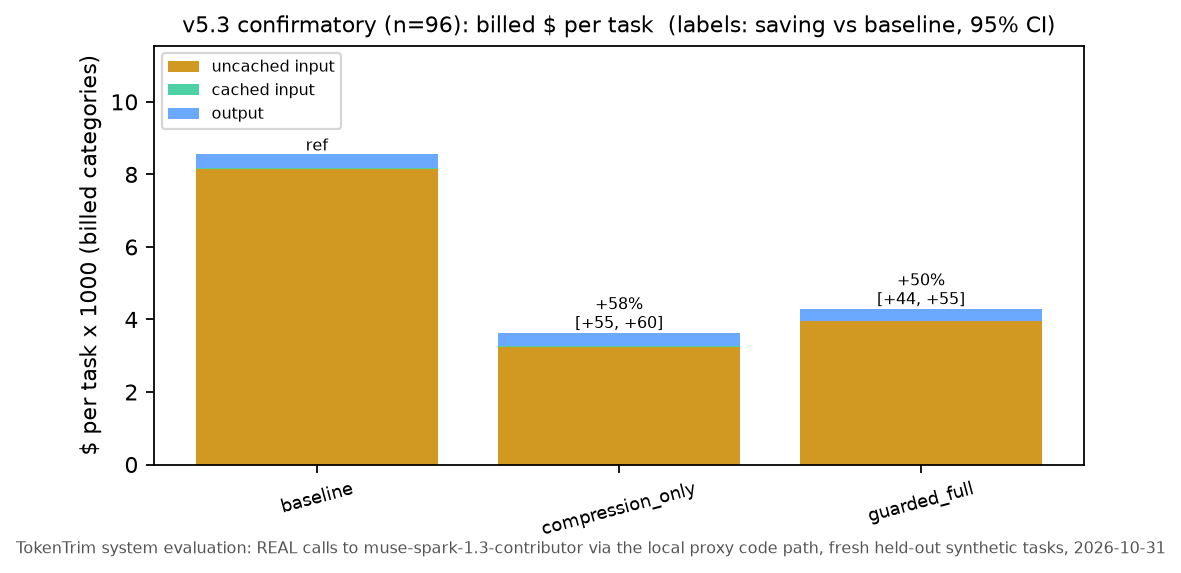
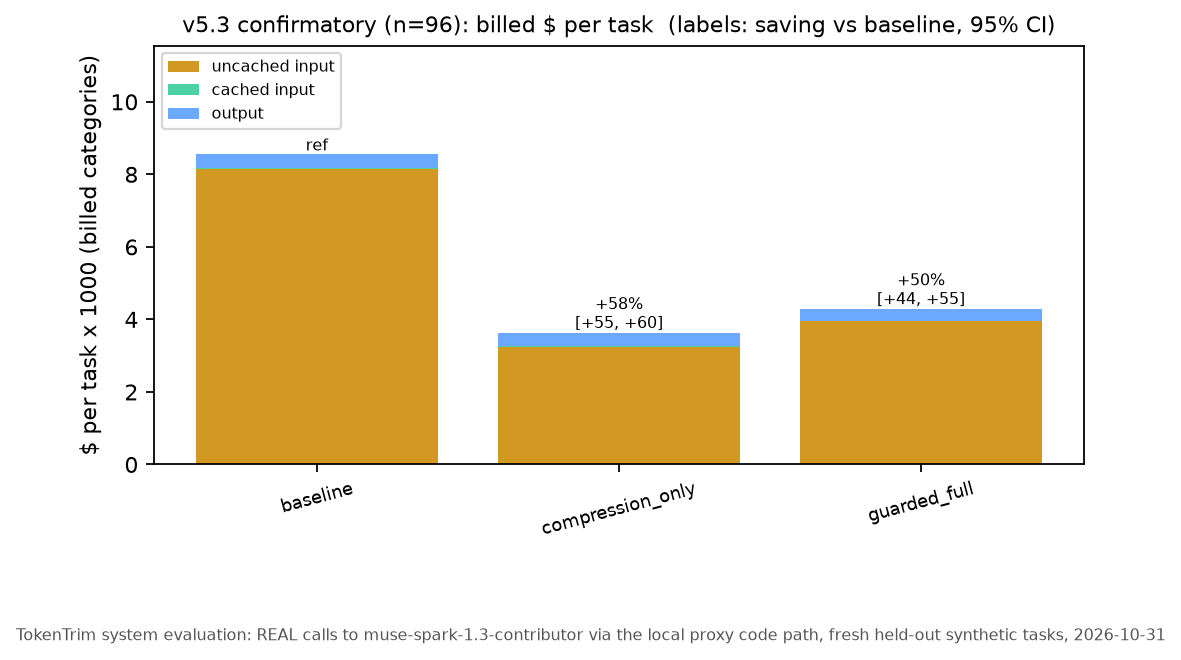
README: compression-only headline (v5.3 confirmatory, NI shown, +57.7% saving), negatives (router never applied, loop guard untriggered, batch B not run); v5.3 figure footer fix

diff --git a/benchmarks/figures_v53.py b/benchmarks/figures_v53.py
@@ -12,6 +12,13 @@ if __name__ == "__main__":
               "fresh held-out synthetic tasks, 2026-10-31")
     F.C.update({"compression_only": "#f5a623", "guarded_full": "#1f6feb"})
     n = s["arms"]["baseline"]["n"]
+
+    def save(fig, name):  # footer lower than v5 so it does not overlap the x label
+        fig.supxlabel(F.NOTE, fontsize=7, color="#555", x=0.01, ha="left", y=-0.22)
+        fig.savefig(F.OUT / name, dpi=160, bbox_inches="tight", facecolor="white")
+        F.plt.close(fig)
+        print(F.OUT / name)
+    F.save = save
     for out in outs:
         out.mkdir(parents=True, exist_ok=True)
         F.OUT = out

diff --git a/README.md b/README.md
@@ -28,7 +28,8 @@ input on Muse Spark Contributor), not the minimum token count.
 python3 -m tokentrim.hooks.install --project .          # copy the skill into ./.agents/skills and ./.claude/skills
 python3 -m tokentrim.hooks.install --project . --with-hooks   # + Claude Code loop-guard hook (settings.json backed up)
 set -a; . ~/.config/meta/env; set +a                    # META_API_KEY, never printed
-python3 -m tokentrim.server --port 8787 --tool-output --run-cap-usd 1   # add --schema-router only if it selects well (v5)
+python3 -m tokentrim.server --port 8787 --run-cap-usd 1   # default --preset compression-only (router off, history off)
+# python3 -m tokentrim.server --preset guarded-full ...    # + lean skill, cache prefix, gated schema router (separate arm)
 #   OpenAI clients:    base_url=http://127.0.0.1:8787/v1
 #   Claude Code etc.:  ANTHROPIC_BASE_URL=http://127.0.0.1:8787   (/v1/messages; model ids map to the Meta model)
 ```
@@ -36,6 +37,72 @@ python3 -m tokentrim.server --port 8787 --tool-output --run-cap-usd 1   # add --
 Every optimization the gateway applies prints an explanation line (real call, 2026-10-30):
 
 ![proxy explanation lines](docs/images/proxy_explanations_terminal.png)
+
+## Headline: compression-only, v5.3 confirmatory TokenTrim system evaluation (2026-10-31)
+
+**Compression-only** is the default demo configuration and the headline result. It is risk-aware,
+structure-preserving tool-output compression with `retrieve_original` recovery, with the router off and history
+compaction off. The test was pre-registered ([`benchmarks/PREREGISTRATION_v5_3.md`](benchmarks/PREREGISTRATION_v5_3.md),
+committed in `82ef78c` before any v5.3 Meta call) on **96 fresh held-out hard agentic tasks** (ah300–ah395, never
+run before) with REAL calls to `muse-spark-1.3-contributor`.
+
+| arm | pass | success diff vs baseline [paired Newcombe 95% CI] | NI (−5 pp) | $/task | saving vs baseline [95% CI] | $/success [95% CI] |
+|---|---|---|---|---|---|---|
+| baseline | 96/96 | – | – | $0.00856 | – | $0.00856 [0.00825, 0.00886] |
+| **compression_only** | **96/96** | +0.0 pp [−3.8, +3.8] | **shown** | **$0.00362** | **+57.7% [+55.0, +60.1]** | $0.00362 [0.00345, 0.00380] |
+| guarded_full | 96/96 | +0.0 pp [−3.8, +3.8] | shown | $0.00428 | +50.0% [+43.6, +55.2] | $0.00428 [0.00384, 0.00480] |
+
+![v5.3 success](docs/images/v53_success.png)
+![v5.3 cost](docs/images/v53_cost.png)
+
+* **Tokens per task (mean prompt / cached / output / reasoning):**
+  * baseline: 96.9k / 15.4k / 1.9k / 1.6k;
+  * compression_only: 41.0k / 8.5k / 1.7k / 1.3k;
+  * guarded_full: 48.5k / 9.0k / 1.5k / 1.1k.
+* **Where the cost goes:** almost all of it is uncached input. Truncated calls: 0 in every arm. Harness errors: 0.
+  Per the pre-registration, errors would have counted as failures.
+* **Recovery is used:** compression_only made 103 grep and 1 full `retrieve_original` calls; guarded_full made 89
+  and 5. The compressed arms make 488 calls against baseline's 384, and are still 58% / 50% cheaper.
+* **Spend:** this run cost $1.5793 in the ledger (round cap $3, job cap $7.94). The ledger total is now $6.5166.
+
+**Negatives and limits (read these):**
+* **The router was never used.** On all 96 tasks, guarded_full's deterministic gate judged the BM25 tool selection
+  "low confidence" and kept all 32 tools. guarded_full is therefore effectively skill + cache prefix +
+  compression. Its extra skill text makes it **about 18% more expensive than compression-only**. The router itself
+  is **not validated** by v5.3. In v5 it was the arm that cost the most (−70%, see below).
+* **The loop guard was never triggered** (0 `search_tools` calls, because the router was gated off). It is
+  covered only by the offline ah50 replay test (issue 68).
+* **Lossless JSON saves little here.** The risk-aware mode chose the lossless view for the span JSON on every task
+  (exact-extraction task with linked records), saving about 17% on that output. Nearly all of the saving comes
+  from log compression with grep recovery.
+* **Same task family.** The tasks are fresh instances of the same generator as v5, not a new task family. They are
+  synthetic tasks, and one model.
+* **Batch B was not run.** The pre-registered spend rule permitted batch B (48 more tasks, ah396–ah443). It was
+  not run in this round, so **n = 96**, the pre-registered minimum. This is a deviation from the plan: B was
+  allowed but not executed.
+* At n=96 with baseline at 96/96, one net failure would already have meant "NI not shown" (power note in the
+  pre-registration).
+
+### v5.1 / v5.2 reliability changes behind this result (offline, $0)
+* **Structure-preserving JSON compression** (issue 69, ah43).
+  * Each record is one compact JSON line with its JSON Pointer. Nothing is flattened into tables. There is a
+    lossless conservative mode and a lossy mode that keeps flagged records plus their parent chain.
+  * Structural check on 100 generated documents: legacy table 50/100 sound, new views 100/100.
+  * The haiku probe could not tell the views apart on accuracy: every view scored 99–100/100
+    ([results/v5_1/json_extraction_summary.md](results/v5_1/json_extraction_summary.md)).
+* **search_tools loop guard** (issue 68, ah50).
+  * It trips after 2 unproductive searches in a row, or after 3 searches with no new client evidence.
+  * It then restores the full catalogue, disables the router for the conversation, and sends an actionable note.
+  * New evidence resets it.
+  * In the replay: 3 searches and a pass, against 49 searches and a fail without the guard.
+* **Fail-closed ledger** (issue 70).
+  * Ledger, budget and auth errors never forward a call: corrupt or malformed file, lock timeout, disk error,
+    an unrecorded commit (which poisons the ledger until reconciled), a missing ledger.
+  * Optimizer errors still fail open.
+  * Thread and process concurrency tests never overshoot the cap.
+* **Adaptive gating:** the router is off by default. The few-tools and low-confidence gates keep the full
+  catalogue, and dependency-chain tools are kept. JSON mode `auto` is conservative (lossless) for
+  exact-extraction tasks over linked records.
 
 ## TokenTrim system evaluation, v5 (2026-10-31, pre-registered, harder tasks)
 
